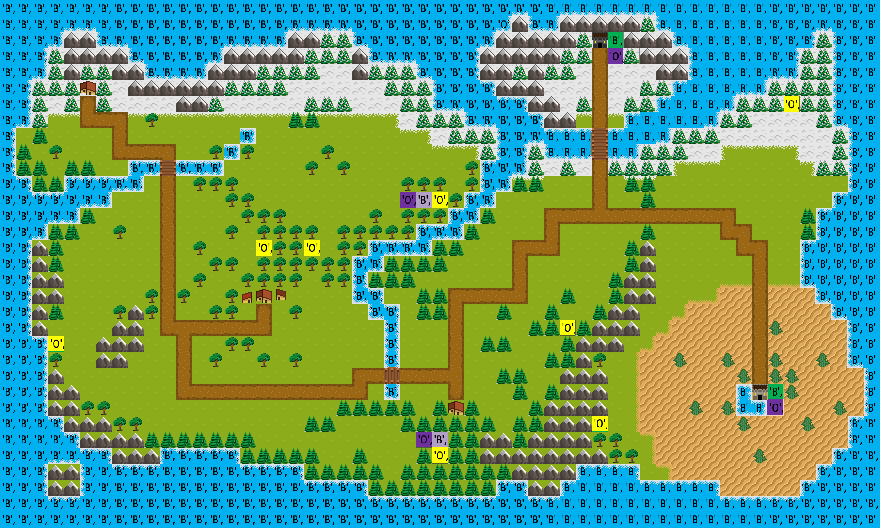
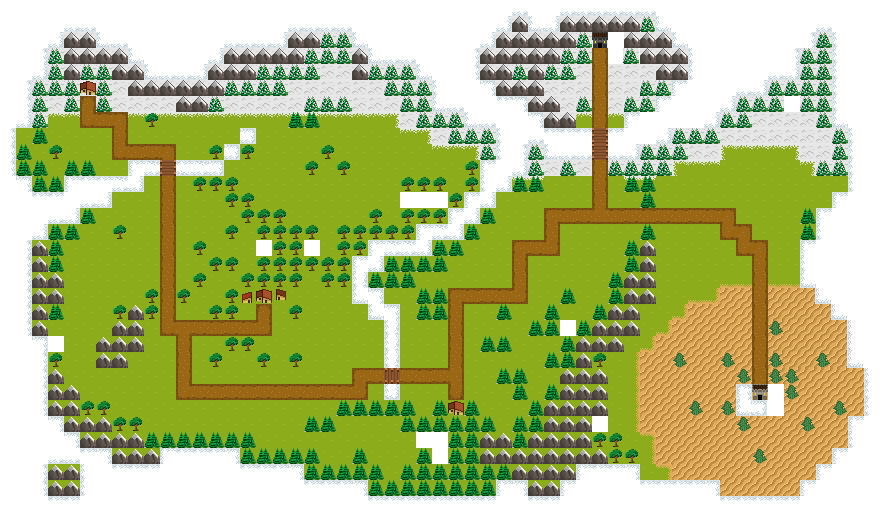
Add files via upload

diff --git a/style.css b/style.css
@@ -1,12 +1,14 @@
 * {margin:0;padding:0;box-sizing:border-box;}
-html {font-size:40px;}
+html {font-size:20px;}
 body {background-color:gray;} 
 section {display:flex;justify-content:center;align-items: center;}
-input[type=button]{width:100px;height:100px;}
+input[type=button]{width:100px;height:100px;cursor: pointer;}
 #ball {width: 1rem;height:1rem;border: 1px solid red;top:4rem;left:4rem;position:absolute;}
 #ballimg {width: 2rem;height:2rem;position: absolute;top: -0.5rem;left: -0.5rem;}
 #walking_sector {width:9rem;height:9rem;border: 1px solid green;border-style:dashed;position: relative;}
 #game {width:calc(11rem + 2px);height:calc(11rem + 2px);border: 1px solid blue;display:flex;justify-content:center;align-items: center;
-    /* clip-path: polygon(5% 5%, 5% 95%,95% 95%,95% 5%); */
+    clip-path: polygon(5% 5%, 5% 95%,95% 95%,95% 5%);
 }
-#map {width:55rem;height:33rem;top:-1rem;left:-1rem;z-index: -1;position: absolute;background-image: url(level.png);background-size: 100%;}
+#map {width:55rem;height:33rem;top:-1rem;left:-1rem;z-index: -1;position: absolute;}
+#sea {width: 100%;height: 100%;background-image: url(sea.gif);background-size: calc(100%/55);position: absolute;}
+#mappic {width: 100%;height: 100%;background-image: url(level.png);background-size: 100%;position: absolute;}

diff --git a/index.html b/index.html
@@ -12,7 +12,10 @@
       <section>
         <div id="game">
           <div id="walking_sector">
-            <div id="map"></div>
+            <div id="map">
+              <div id="sea"></div>
+              <div id="mappic"></div>
+            </div>
             <div id="ball">
                 <img src="dasha.png" alt="Dasha" id="ballimg">
             </div>
